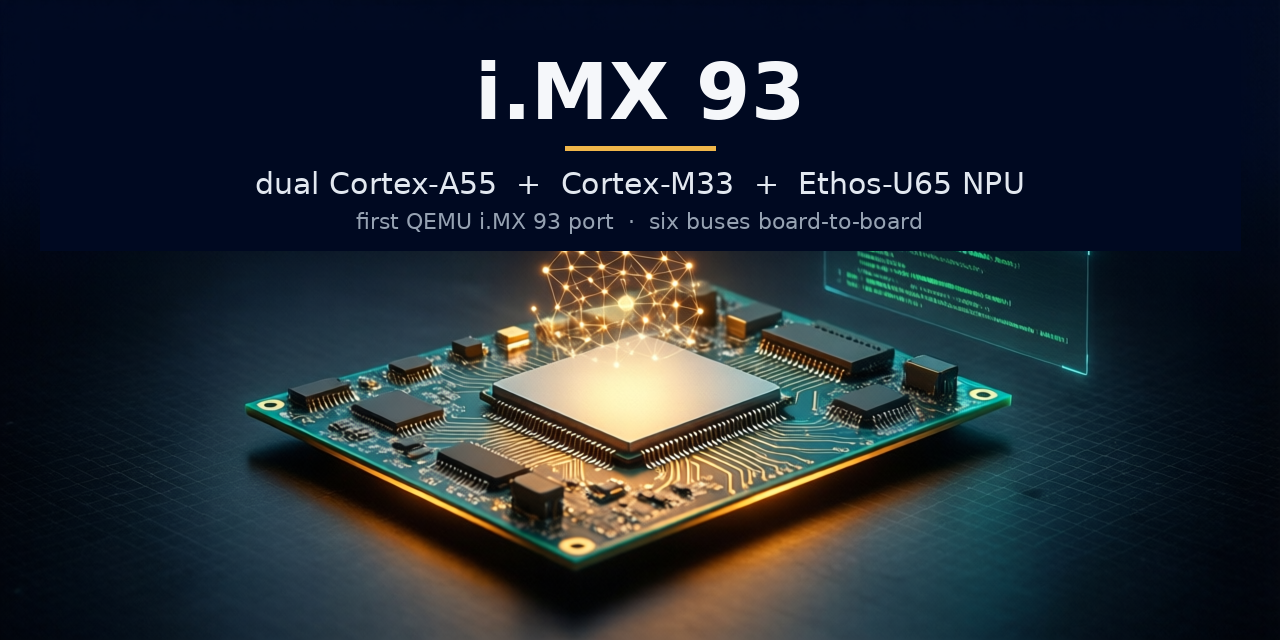
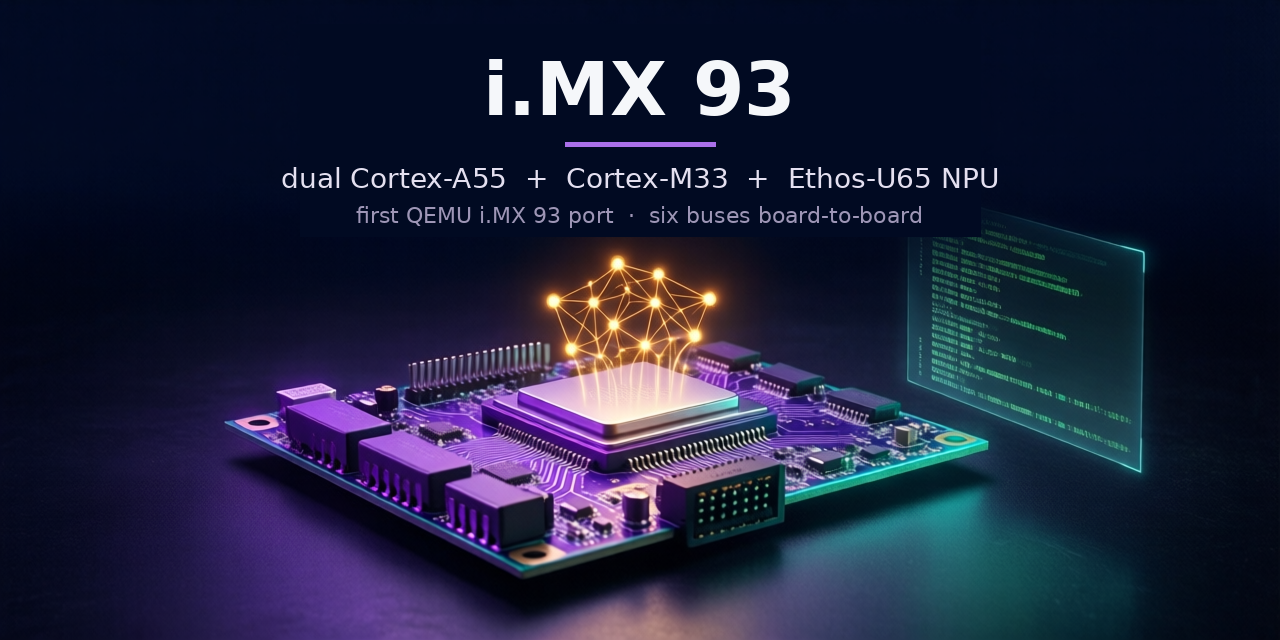
README: violet hero (fleet accent ruling) + six-bus interconnect image
Holobench's accent arbitration assigned the i.MX 93 the VIOLET signature
(resolving a 93/95 amber clash; violet reads as the neural/AI accent, fitting
the NPU node) - update the identity-preamble hero to the violet family portrait
(the amber-gold Ethos-U65 NPU neural-mesh kept as a warm contrast). Final family
palette: holobench=teal, imx91=green, imx93=violet, imx95=amber, mcxn947=blue.

Add the six-bus interconnect variant (imx93_hero_sixbus.png) to the Interconnect
section - six labeled bus cables (ETH/USB/UART/SPI/CAN/I2C) arcing to peer
boards - as the headline-feature spotlight, keeping the single-board family
portrait as the preamble. Both from imagegen.

diff --git a/README.md b/README.md
@@ -137,6 +137,8 @@ boards hook up over a stock QEMU socket, no host kernel/root. Every link has a
 byte-exact oracle. Harness:
 [`tests/interconnect-imx93/`](tests/interconnect-imx93/).
 
+![The six board-to-board transports — ETH · USB · UART · SPI · CAN · I2C — each byte-exact between two emulated i.MX 93s over a QEMU socket](docs/images/imx93_hero_sixbus.png)
+
 | Transport | Shape | Status |
 |---|---|:--:|
 | **Ethernet** | two 93s, FEC `eth0` over `-nic socket` | PASS |
